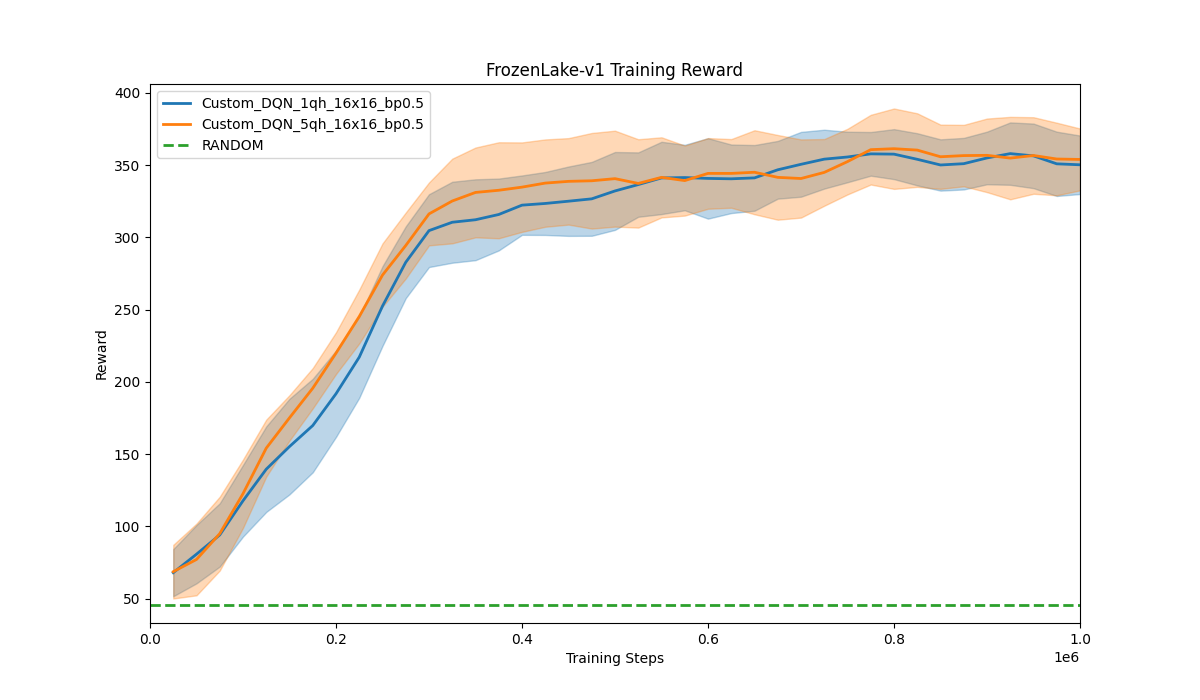
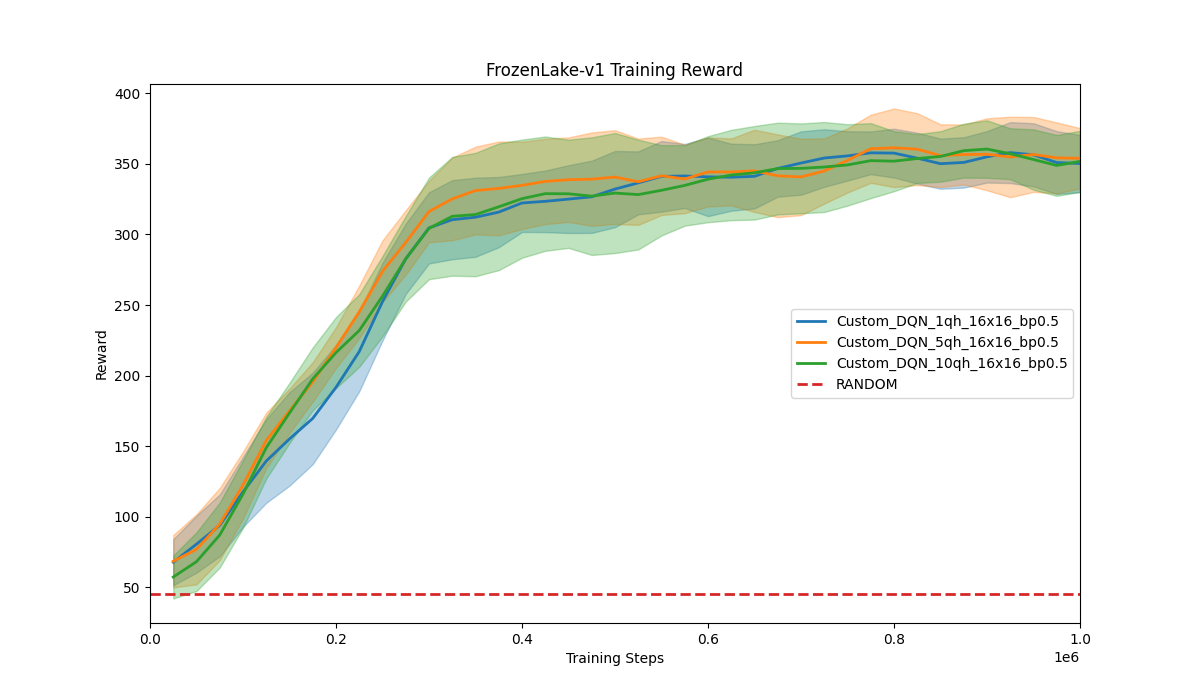
updated frozen 16x plots

diff --git a/src/plot_results.py b/src/plot_results.py
@@ -197,19 +197,19 @@ def main_plots():
 
     base_dir = f"results/{env_name}/1.0M"
     algos_to_plot = [
-        "Custom_DQN_1qh_bp0.5",
-        # "Custom_DQN_1qh_32x32_bp0.5",
-        "Custom_DQN_5qh_bp0.5",
-        # "Custom_DQN_5qh_32x32_bp0.5",
-        "Custom_DQN_10qh_bp0.5",
-        # "Custom_DQN_10qh_32x32_bp0.5",
+        # "Custom_DQN_1qh_bp0.5",
+        "Custom_DQN_1qh_16x16_bp0.5",
+        # "Custom_DQN_5qh_bp0.5",
+        "Custom_DQN_5qh_16x16_bp0.5",
+        # "Custom_DQN_10qh_bp0.5",
+        "Custom_DQN_10qh_16x16_bp0.5",
         # "SB3_DQN",
-        # "SB3_DQN_32x32",
+        "SB3_DQN_16x16",
         "RANDOM",
     ]
 
     # save_dir = f"{base_dir}/_plots"
-    save_dir = f"{base_dir}/_plots/64x64_all/"
+    save_dir = f"{base_dir}/_plots/16x16_bp0.5_sb3/"
 
     plot_training_results = False  # toggle to either to plot eval or train results
     load_head_results = False  # set True to see head plots
@@ -221,14 +221,14 @@ def main_plots():
         load_head_results=load_head_results,
     )
 
-    results_to_plot["Custom_DQN_1qh_bp1.0"] = (
-        read_csv(
-            "results/FrozenLake-v1/1.0M/bp_1.0/Custom_DQN_1qh/Validation_Results/sma_mean.csv"
-        ),
-        read_csv(
-            "results/FrozenLake-v1/1.0M/bp_1.0/Custom_DQN_1qh/Validation_Results/sma_std.csv"
-        ),
-    )
+    # results_to_plot["Custom_DQN_1qh_bp1.0"] = (
+    #     read_csv(
+    #         "results/FrozenLake-v1/1.0M/bp_1.0/Custom_DQN_1qh/Validation_Results/sma_mean.csv"
+    #     ),
+    #     read_csv(
+    #         "results/FrozenLake-v1/1.0M/bp_1.0/Custom_DQN_1qh/Validation_Results/sma_std.csv"
+    #     ),
+    # )
 
     # If you need to plot results from outside of base_dir, use results_to_plot["my_result"] =  read_csv(path_to_result)
     plot_results(
